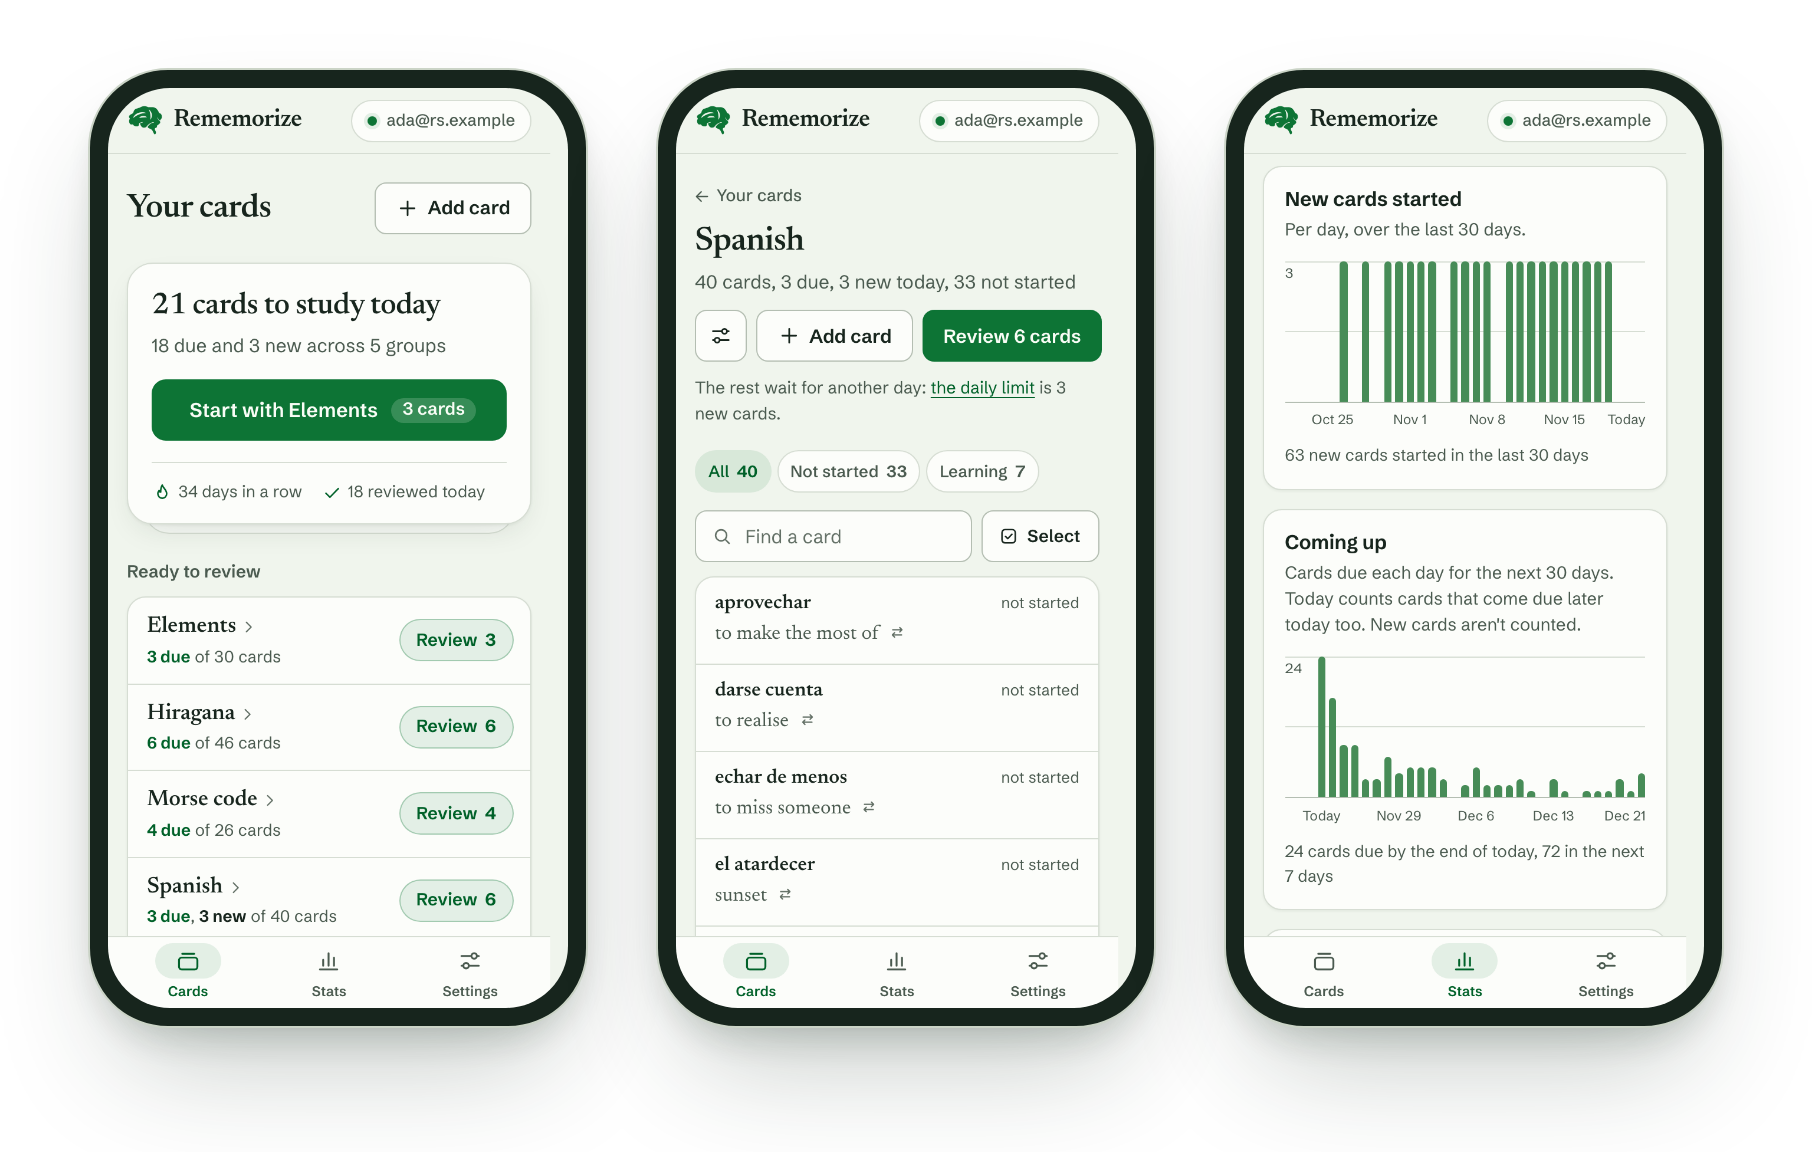
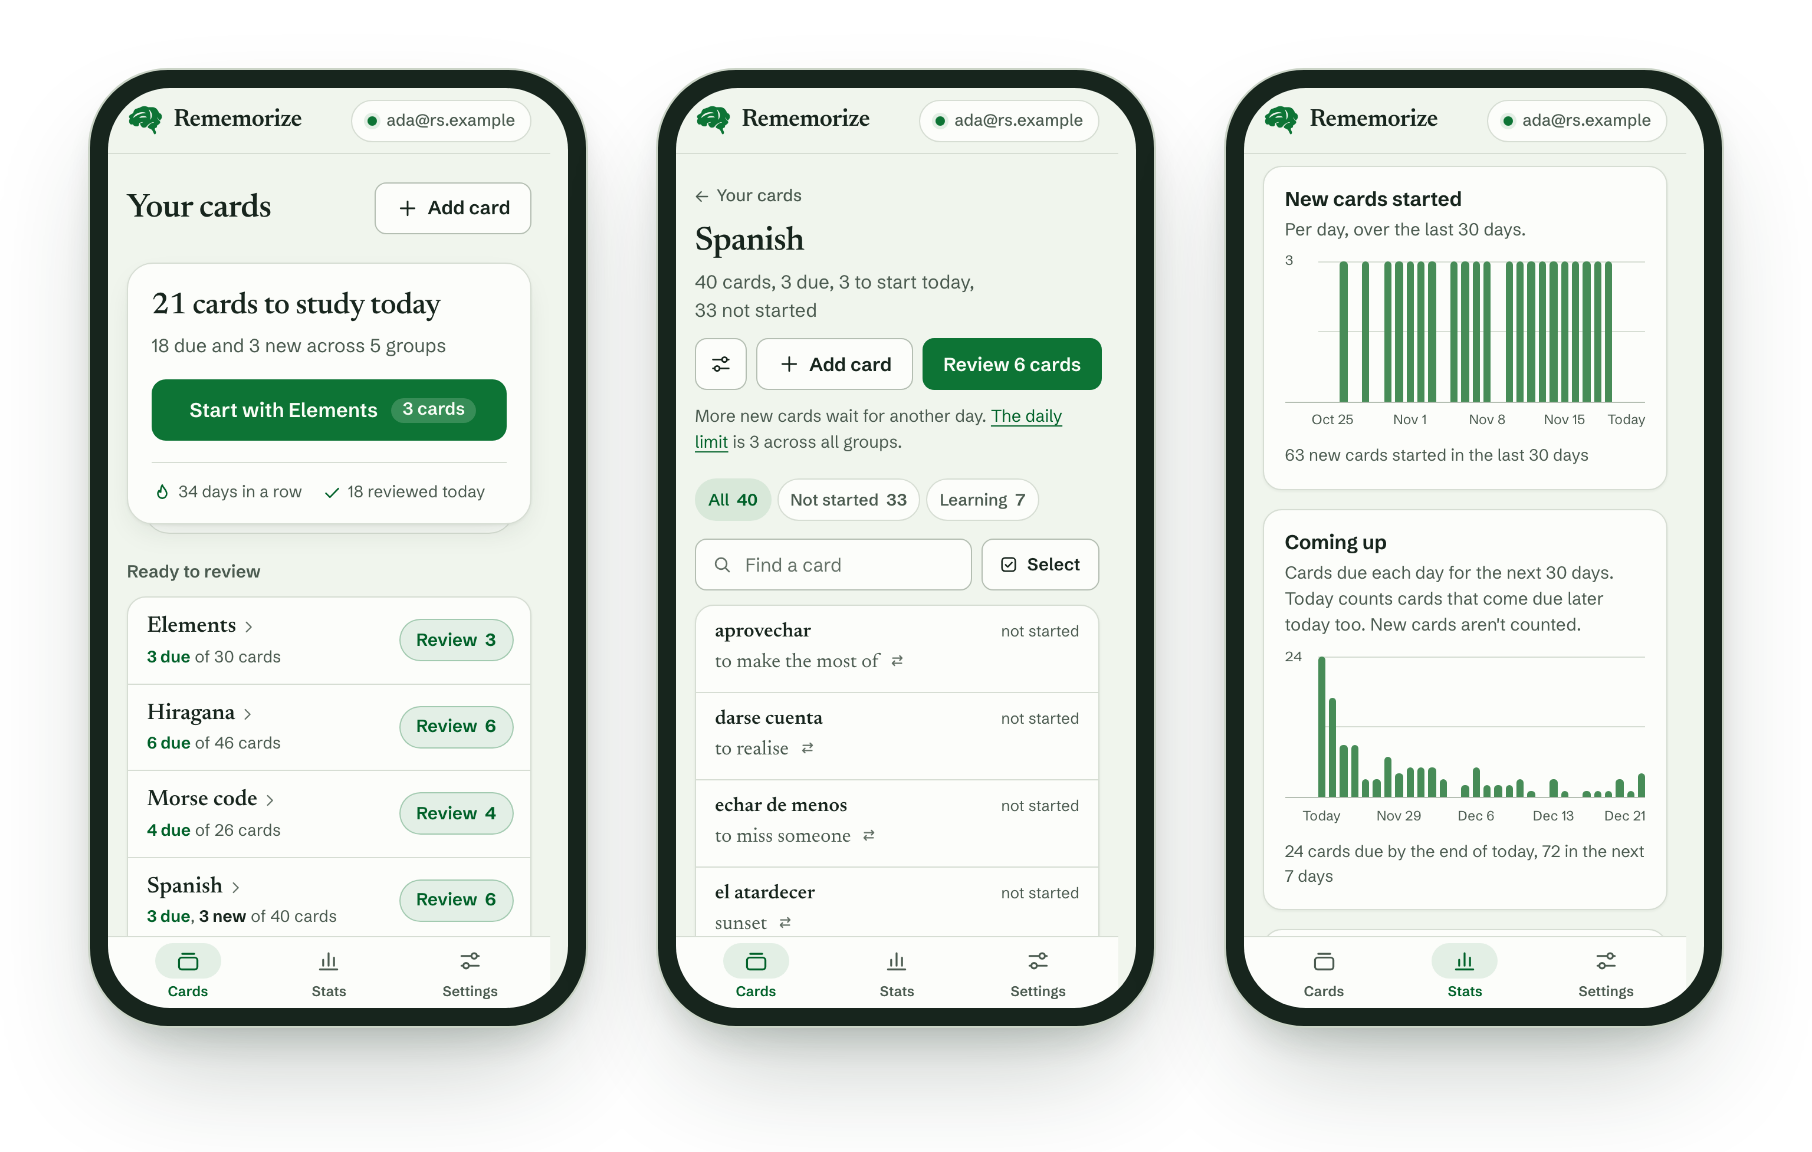
Keep a count on the line with its unit, and the day's notes out of a group's summary
From the seventh council review of the screenshots.

"8 minutes" and "6 cards" no longer break between the number and the word,
anywhere. A group's heading breaks between its counts, not inside one, and
says how many new cards are "to start today" rather than "new today". The
note under it gives the daily limit its scope: across all groups.

At the end of the last review, what is said about today's new cards stands
with the way back, not in the group's summary. The home page says which group
is due next in the words the summary uses, on one line beside a smaller mark,
and that group's row carries its time in the same weight. The second list of
groups is "Other groups" while one of them can still take today's new cards.

A chart's top figure sits on its line. The notice about reminders is no
louder than the words above it.

diff --git a/src/components/Home.svelte b/src/components/Home.svelte
@@ -45,6 +45,9 @@
         return names.length === 0 ? "" : names.length === 1 ? names[0] : "other groups";
     });
 
+    /** A group with nothing due could still be given today's new cards. */
+    const canStartElsewhere = $derived(library.newRemaining > 0 && rest.some((g) => notStartedIn(g.name) > 0));
+
     /** The group the next card to come due is in. */
     const soonestGroup = $derived(
         next && library.groups.find((g) => nextIn(g.name)?.getTime() === next.getTime())?.name,
@@ -105,8 +108,11 @@
                     <p class="muted">
                         <!-- What comes back later today is said first: caught up is then only for now. -->
                         {#if next && next.toDateString() === library.now.toDateString()}
-                            The next card is due {fromNow(next.toISOString(), library.now)}{#if soonestGroup && library.groups.length > 1},
-                                in <strong>{soonestGroup}</strong>{/if}.
+                            {#if soonestGroup && library.groups.length > 1}
+                                <strong>{soonestGroup}</strong> is due {fromNow(next.toISOString(), library.now)}.
+                            {:else}
+                                The next card is due {fromNow(next.toISOString(), library.now)}.
+                            {/if}
                         {:else if library.newWaiting > 0}
                             {plural(viewCounts(library.cards, library.now).new, "card")} not started yet: more start
                             tomorrow.
@@ -171,7 +177,8 @@
     {/if}
 
     {#if rest.length > 0}
-        <h2 class="section-label">{ready.length > 0 ? "Nothing due today" : "Groups"}</h2>
+        <!-- "Nothing due" would tell someone to skip a group that can still take today's new cards. -->
+        <h2 class="section-label">{ready.length === 0 ? "Groups" : canStartElsewhere ? "Other groups" : "Nothing due today"}</h2>
         <ul class="groups rows">
             {#each rest as group (group.name)}
                 {@const due = nextIn(group.name)}
@@ -185,12 +192,13 @@
                         </span>
                         <span class="meta">
                             {plural(group.total, "card")}{#if waiting === group.total}, none started yet{:else if waiting > 0},
-                                {waiting} not started{/if}{#if due}, next review {fromNow(due.toISOString(), library.now)}{/if}
+                                {waiting} not started{/if}{#if due}, <span class:soon={ready.length === 0 && group.name === soonestGroup}>next review {fromNow(due.toISOString(), library.now)}</span>{/if}
                         </span>
                         <!-- Today's new cards can go to this group instead: said on the row that does it. -->
                         {#if waiting > 0 && library.newRemaining > 0}
                             <span class="meta instead">
-                                You can start today's {plural(Math.min(waiting, library.newRemaining), "new card")} here{takers ? ` instead of in ${takers}` : ""}
+                                You can start today's {plural(Math.min(waiting, library.newRemaining), "new card")} here{#if takers}{" "}instead
+                                    of in <strong>{takers}</strong>{/if}
                             </span>
                         {/if}
                     </a>
@@ -486,9 +494,19 @@
         font-weight: 650;
     }
 
+    /* The group the card above names: its time stands out from the others'. */
+    .soon {
+        color: var(--text);
+        font-weight: 600;
+    }
+
     /* Said in the text's own ink: green in these rows is for what is due. */
     .instead {
         color: var(--text);
+    }
+
+    .instead strong {
+        font-weight: 600;
     }
 
     .due {
@@ -592,9 +610,15 @@
             padding: 1.35rem 1.25rem 1rem;
         }
 
-        /* The mark keeps its place beside the text. */
+        /* The mark keeps its place beside the text, smaller, so the line beside it isn't squeezed into two. */
         .today.caught {
             grid-template-columns: minmax(0, 1fr) auto;
+            column-gap: 0.75rem;
+        }
+
+        .seal {
+            width: 2.25rem;
+            height: 2.25rem;
         }
 
         .start {

diff --git a/tests/e2e/local.spec.ts b/tests/e2e/local.spec.ts
@@ -344,7 +344,7 @@ test("a card answered Again comes back before the review ends, and one answered 
     await page.getByRole("button", { name: /Show answer/ }).click();
     await page.getByRole("button", { name: /Hard/ }).click();
     await expect(page.getByText("All caught up for now")).toBeVisible();
-    await expect(page.getByText(/The next review is in \d+ minutes?\./)).toBeVisible();
+    await expect(page.getByText(/The next review is in \d+\sminutes?\./)).toBeVisible();
 });
 
 test("undo the last rating", async ({ page, isMobile }) => {
@@ -446,8 +446,10 @@ test("daily limit on new cards", async ({ page }) => {
 
     // The group says why its review is shorter than its count of new cards.
     await page.goto("/#/group/Numbers");
-    await expect(page.getByText("3 cards, 2 new today, 3 not started")).toBeVisible();
-    await expect(page.getByText("The rest wait for another day: the daily limit is 2 new cards.")).toBeVisible();
+    await expect(page.getByText("3 cards, 2 to start today, 3 not started")).toBeVisible();
+    await expect(
+        page.getByText("More new cards wait for another day. The daily limit is 2 across all groups."),
+    ).toBeVisible();
 
     await page.goto("/");
     const start = page.locator(".today").getByRole("link", { name: /^Review Numbers/ });
@@ -466,7 +468,7 @@ test("daily limit on new cards", async ({ page }) => {
 
     await page.getByRole("link", { name: "Back to your cards" }).click();
     await page.getByRole("link", { name: /^Numbers/ }).click();
-    await expect(page.getByText("No more new cards today: the daily limit is 2 new cards.")).toBeVisible();
+    await expect(page.getByText("No more new cards today. The daily limit is 2 across all groups.")).toBeVisible();
 
     // The setting is remembered, and today's count shows.
     await page.reload();
@@ -563,7 +565,7 @@ test("cards can be studied back → front, or both ways", async ({ page }) => {
     await page.getByRole("button", { name: "Save", exact: true }).click();
     await expect(page.getByTitle("Studied both ways")).toBeVisible();
     await expect(page.locator(".when")).toHaveText("tomorrow");
-    await expect(page.getByRole("link", { name: /Review \d+ cards?/ })).toHaveCount(0);
+    await expect(page.getByRole("link", { name: /Review \d+\scards?/ })).toHaveCount(0);
 
     // A new card studied both ways shows one direction today: front → back.
     await page.goto("/#/new?group=Drinks");
@@ -699,7 +701,7 @@ test("statistics follow reviews", async ({ page }) => {
     await expect(page.getByRole("row", { name: /Animals/ })).toContainText("50%");
     await expect(page.getByText("2 new cards started in the last 30 days")).toBeVisible();
     // The card rated Easy is scheduled for a later day.
-    await expect(page.getByText(/^\d+ cards? due by the end of today, 1 in the next 7 days$/)).toBeVisible();
+    await expect(page.getByText(/^\d+\scards? due by the end of today, 1 in the next 7 days$/)).toBeVisible();
 });
 
 test("import a CSV, skip duplicates on re-import, export", async ({ page }) => {

diff --git a/src/components/GroupView.svelte b/src/components/GroupView.svelte
@@ -219,10 +219,16 @@
 <div class="page-head">
     <h1>{group ?? "All cards"}</h1>
     {#if library.loaded && cards.length > 0}
+        <!-- Each count keeps to one line: where the line is short it breaks between them, not inside one. -->
+        {@const counts = [
+            plural(cards.length, "card"),
+            reviews > 0 ? `${reviews} due` : "",
+            starting > 0 ? `${starting} to start today` : "",
+            notStarted > 0 ? `${notStarted} not started` : "",
+        ].filter(Boolean)}
         <p class="sub">
             {#if show}{labelOf(show)}:{/if}
-            {plural(cards.length, "card")}{#if reviews > 0}, {reviews} due{/if}{#if starting > 0}, {starting} new
-                today{/if}{#if notStarted > 0}, {notStarted} not started{/if}
+            {#each counts as count, i (count)}<span class="count">{count}{i < counts.length - 1 ? "," : ""}</span>{" "}{/each}
         </p>
     {/if}
     <div class="actions">
@@ -254,11 +260,11 @@
         {#if starting < fresh}
             <p>
                 {#if starting === 0}
-                    No more new cards today:
+                    No more new cards today.
                 {:else}
-                    The rest wait for another day:
+                    More new cards wait for another day.
                 {/if}
-                <a href={href.account()}>the daily limit</a> is {plural(library.newPerDay, "new card")}.
+                <a href={href.account()}>The daily limit</a> is {library.newPerDay} across all groups.
             </p>
         {/if}
     </div>
@@ -439,6 +445,10 @@
     .page-head .sub {
         grid-column: 1 / -1;
         margin-top: 0;
+    }
+
+    .count {
+        white-space: nowrap;
     }
 
     h1 {

diff --git a/src/components/Account.svelte b/src/components/Account.svelte
@@ -174,7 +174,8 @@
         <h2>Storage</h2>
         <p class="account">
             <span class="dot" class:warn={library.status === "unauthorized"} aria-hidden="true"></span>
-            <span>Connected as <strong>{library.userAddress}</strong>.</span>
+            <!-- No full stop: next to an address it would pass for part of it. -->
+            <span>Connected as <strong>{library.userAddress}</strong></span>
         </p>
         {#if library.offline}
             <p class="muted">You're offline; changes will sync when you're back.</p>
@@ -463,7 +464,9 @@
         <a href="https://silverbucket.net" target="_blank" rel="noreferrer">silverbucket.net</a><br />
         <a href="https://github.com/silverbucket/rememorize" target="_blank" rel="noreferrer">Source code</a>
         · Free software under the
-        <a href="https://www.gnu.org/licenses/gpl-3.0.html" target="_blank" rel="noreferrer">GPL-3.0 or later</a>
+        <a class="whole" href="https://www.gnu.org/licenses/gpl-3.0.html" target="_blank" rel="noreferrer"
+            >GPL-3.0 or later</a
+        >
     </p>
 </section>
 
@@ -501,11 +504,16 @@
         max-width: 38rem;
     }
 
+    /* A name that isn't broken across lines. */
+    .whole {
+        white-space: nowrap;
+    }
+
     /* Why something can't be done here yet: set apart, and no louder than the words around it. */
     section p.notice {
-        padding: 0.7rem 0.9rem;
-        border-radius: var(--radius);
-        background: var(--surface-2);
+        padding: 0.1rem 0 0.1rem 0.8rem;
+        border-left: 2px solid var(--border-strong);
+        color: var(--text-muted);
         font-size: 0.925rem;
     }
 

diff --git a/src/components/Review.svelte b/src/components/Review.svelte
@@ -475,11 +475,6 @@
                     Carry on now or come back later: they stay due, and a few hours makes little difference to how
                     well you remember them.
                 </p>
-            {:else if library.newWaiting > 0 && !nextGroup}
-                <p class="muted">
-                    You've started {library.startedToday} of {library.newPerDay} new cards for today, and the rest wait
-                    for another day. <a href={href.account()}>Change the daily limit</a>.
-                </p>
             {/if}
             {#if held > 0}
                 <p class="muted">
@@ -514,6 +509,13 @@
                         <span class="n">{plural(nextGroup.due, "card")}</span>
                     </a>
                 </div>
+            {/if}
+            <!-- The day's, not this review's: it stands with the way on, not in the summary. -->
+            {#if waiting === 0 && !nextGroup && library.newWaiting > 0}
+                <p class="muted left-today">
+                    You've started {library.startedToday} of {library.newPerDay} new cards for today, and the rest wait
+                    for another day. <a href={href.account()}>Change the daily limit</a>.
+                </p>
             {/if}
             <a class="btn" class:primary={waiting === 0 && !nextGroup} href={back}>Back to {backName}</a>
         </div>

diff --git a/src/lib/format.ts b/src/lib/format.ts
@@ -9,12 +9,15 @@ const UNITS: [Intl.RelativeTimeFormatUnit, number][] = [
     ["minute", 60 * 1000],
 ];
 
+/** A space that a line can't break at: it keeps a count with its unit ("8 minutes", "6 cards"). */
+const NBSP = "\u00a0";
+
 /** "in 3 days", "2 hours ago", "now". */
 export function fromNow(iso: string | undefined, now = new Date()): string {
     if (!iso) return "never";
     const diff = new Date(iso).getTime() - now.getTime();
     for (const [unit, ms] of UNITS) {
-        if (Math.abs(diff) >= ms) return relative.format(Math.round(diff / ms), unit);
+        if (Math.abs(diff) >= ms) return relative.format(Math.round(diff / ms), unit).replace(/(\d) /, `$1${NBSP}`);
     }
     return "now";
 }
@@ -26,7 +29,7 @@ export function formatDateTime(iso: string | undefined): string {
 }
 
 export function plural(count: number, one: string, many = `${one}s`): string {
-    return `${count} ${count === 1 ? one : many}`;
+    return `${count}${NBSP}${count === 1 ? one : many}`;
 }
 
 /** A span of days in words: "9 days", "14 months", "2.5 years". */

diff --git a/src/components/BarChart.svelte b/src/components/BarChart.svelte
@@ -54,16 +54,18 @@
         /* Room for the scale's top value beside the bars. */
         padding-left: 1.75rem;
         border-bottom: 1px solid var(--border-strong);
-        /* A line at the top value and one halfway, to read the bars against. */
+        /* A line at the top value and one halfway, to read the bars against. They start where the bars do. */
         background:
             linear-gradient(var(--border), var(--border)) 0 0 / 100% 1px no-repeat,
             linear-gradient(var(--border), var(--border)) 0 50% / 100% 1px no-repeat;
+        background-origin: content-box;
         touch-action: pan-y;
     }
 
+    /* Set on its line, like the scale of the line charts. */
     .max {
         position: absolute;
-        top: 0.3rem;
+        top: -0.35rem;
         left: 0;
         font-size: 0.72rem;
         line-height: 1;
